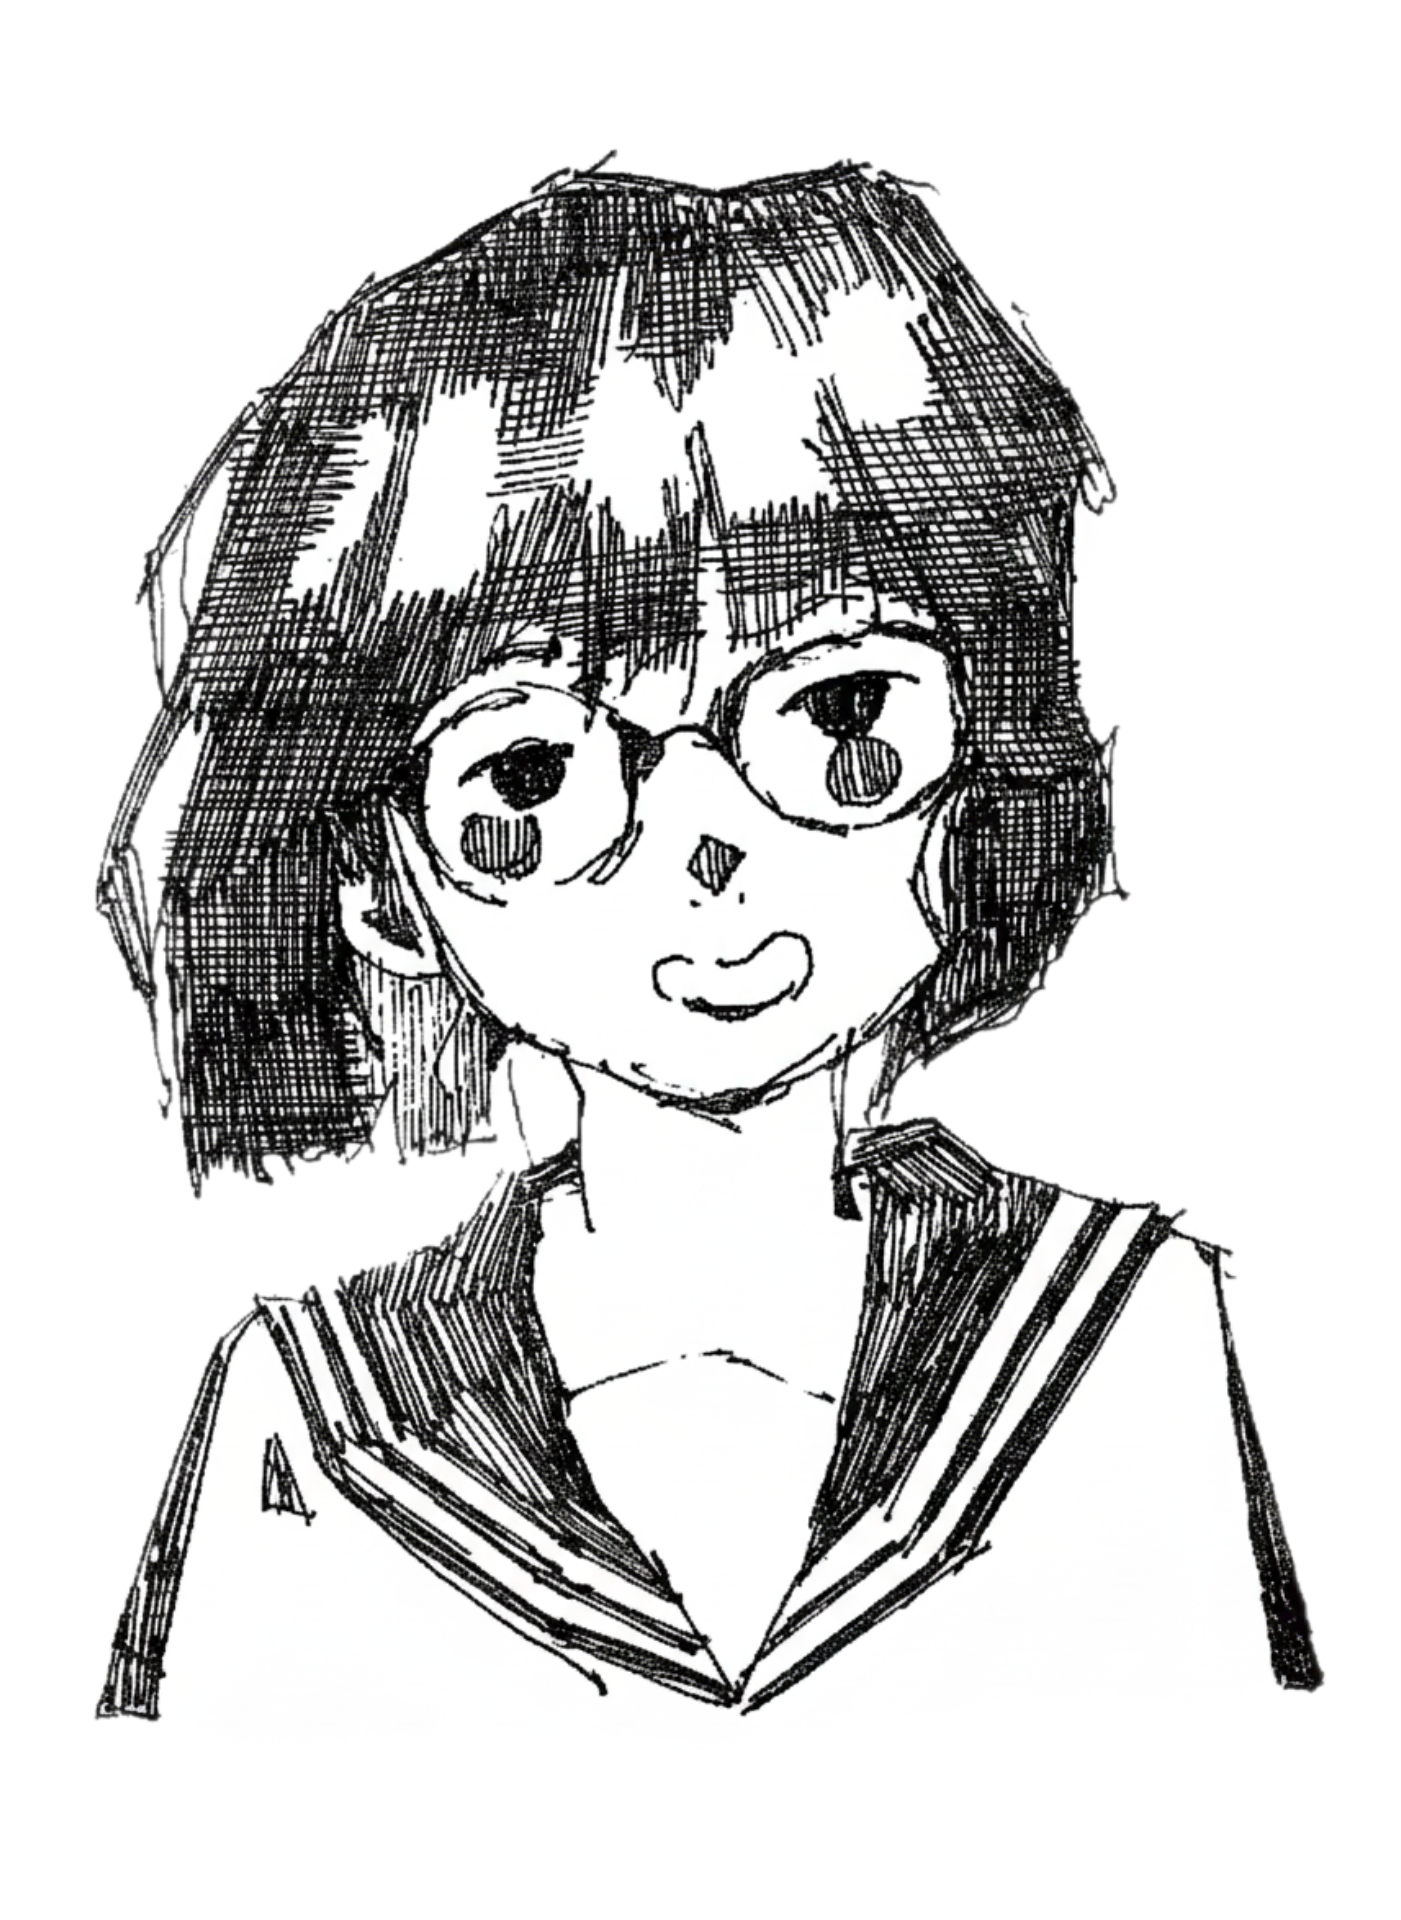
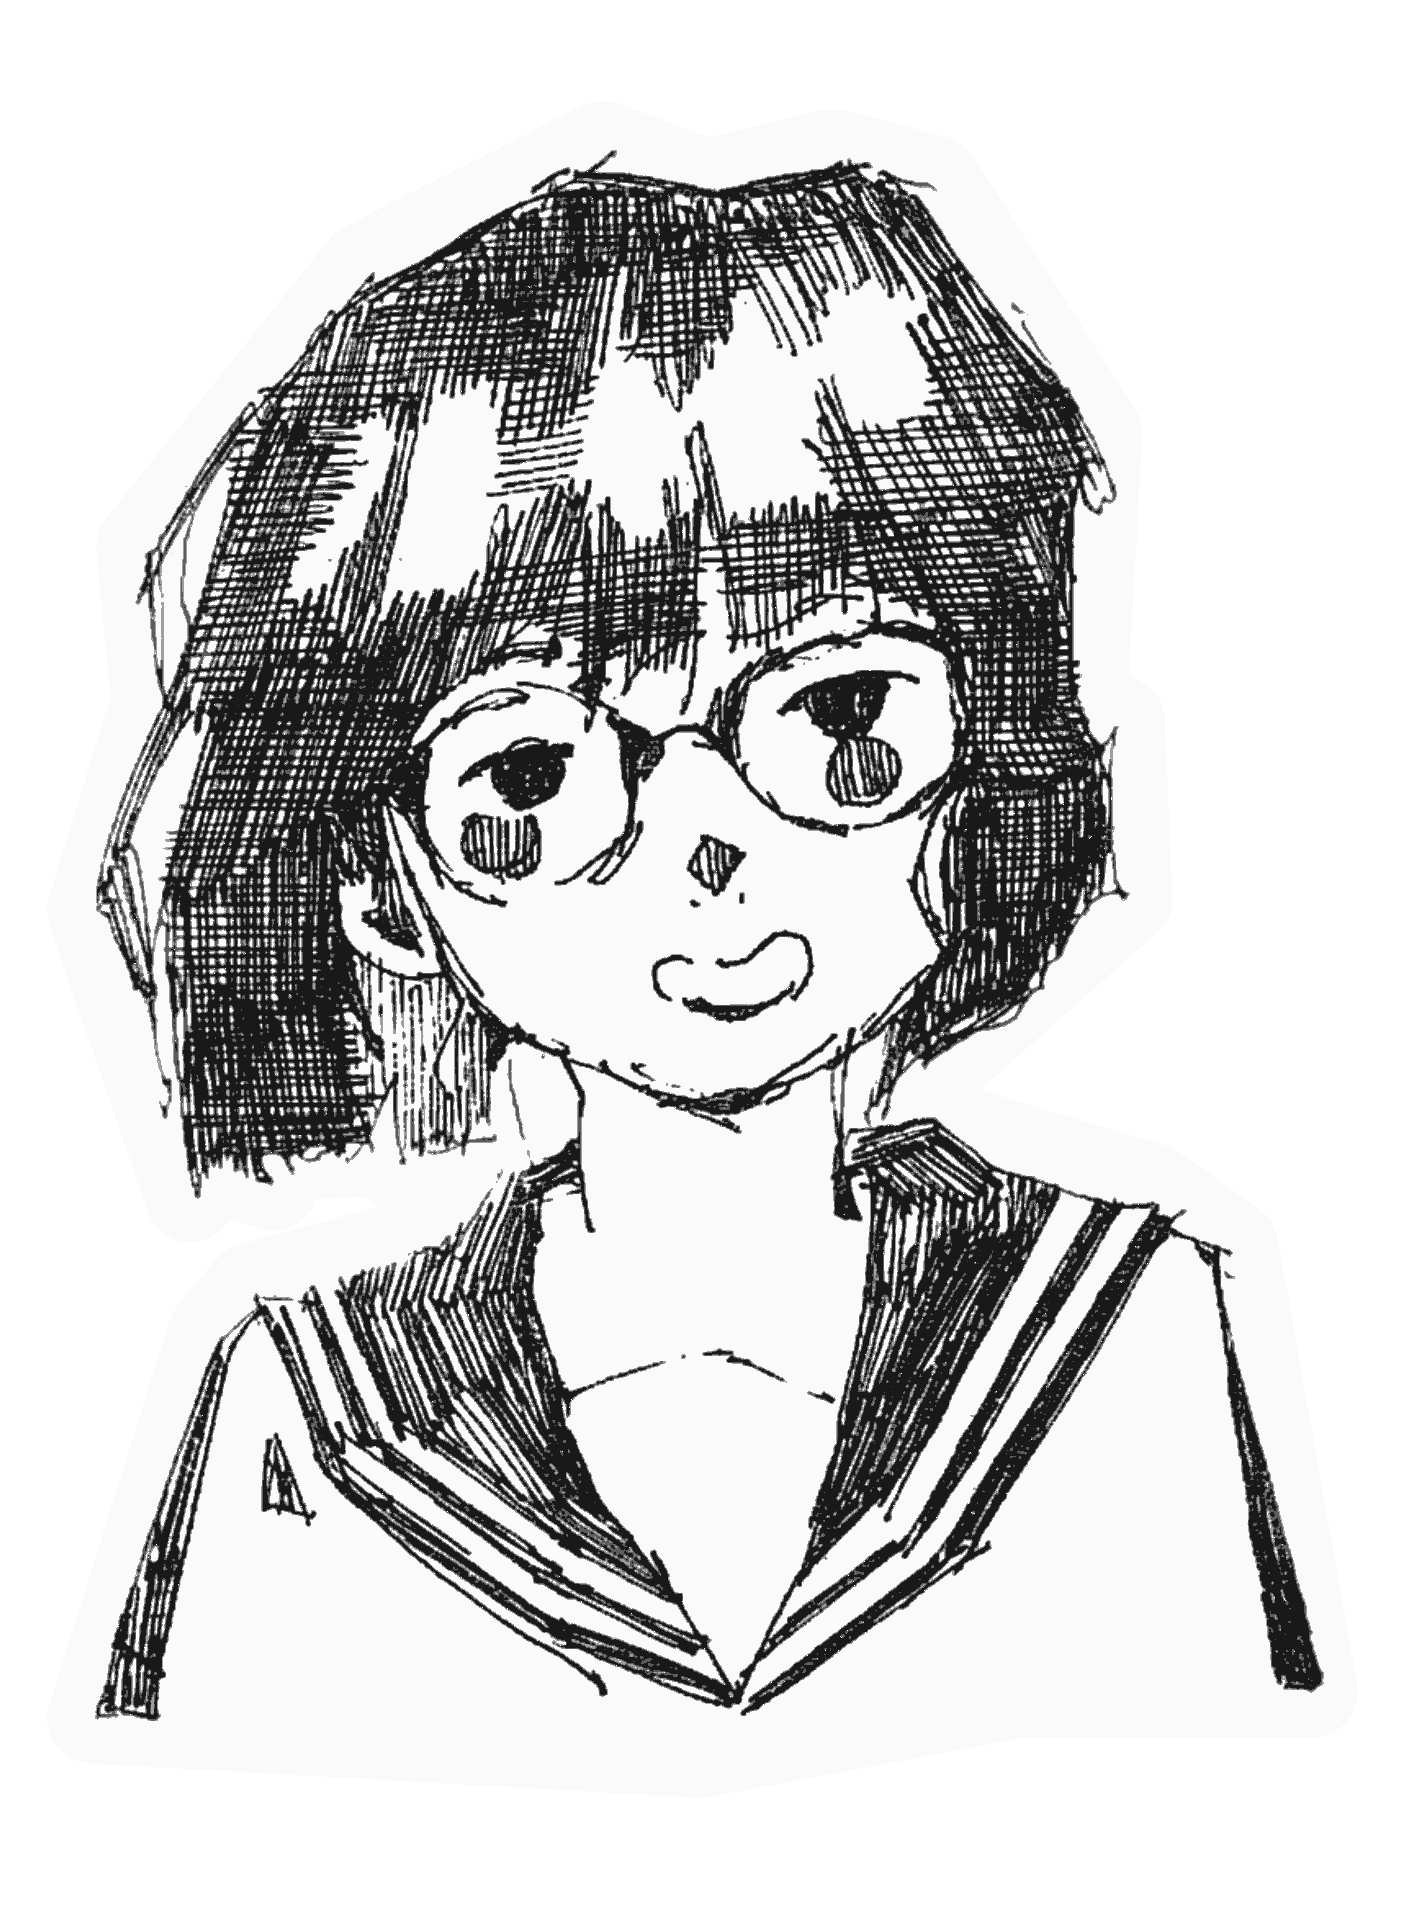
chore(assets): quantize card art to 20 colors; fix sitting + drop happy
Palette-quantize all card faces/back to 20 colors (~30 MB -> ~5 MB on disk,
posterized look). The over-compressed sitting card is swapped for the
katya-sit-down compressed variant with a white border (not quantized), and the
deleted katya-happy card is removed from the deck's image pool.

diff --git a/KatyaKatya.Client/KatyaKatya.Client/ViewModels/SinglePlayer/SinglePlayerGameViewModel.cs b/KatyaKatya.Client/KatyaKatya.Client/ViewModels/SinglePlayer/SinglePlayerGameViewModel.cs
@@ -27,11 +27,10 @@ public partial class SinglePlayerGameViewModel : ObservableObject
         "katya-moods/main/katya-main-no-background",
         "katya-moods/in-love/katya-in-love-no-background",
         "katya-moods/shy/katya-shy-2-no-background",
-        "katya-moods/sitting/katya-sit-no-background",
+        "katya-moods/sitting/katya-sit-down-no-background-compressed",
         "katya-moods/standing/sketch-katya-standing-no-background",
         "yumiko-1/yumiko-1-original",
         "akari-1/akari-1-original",
-        "katya-moods/happy/katya-happy",
         "katya-moods/shy/katya-shy-3",
         "katya-1/katya-1-original-border",
         "katya-moods/main/sketch-katya-main-no-background",
